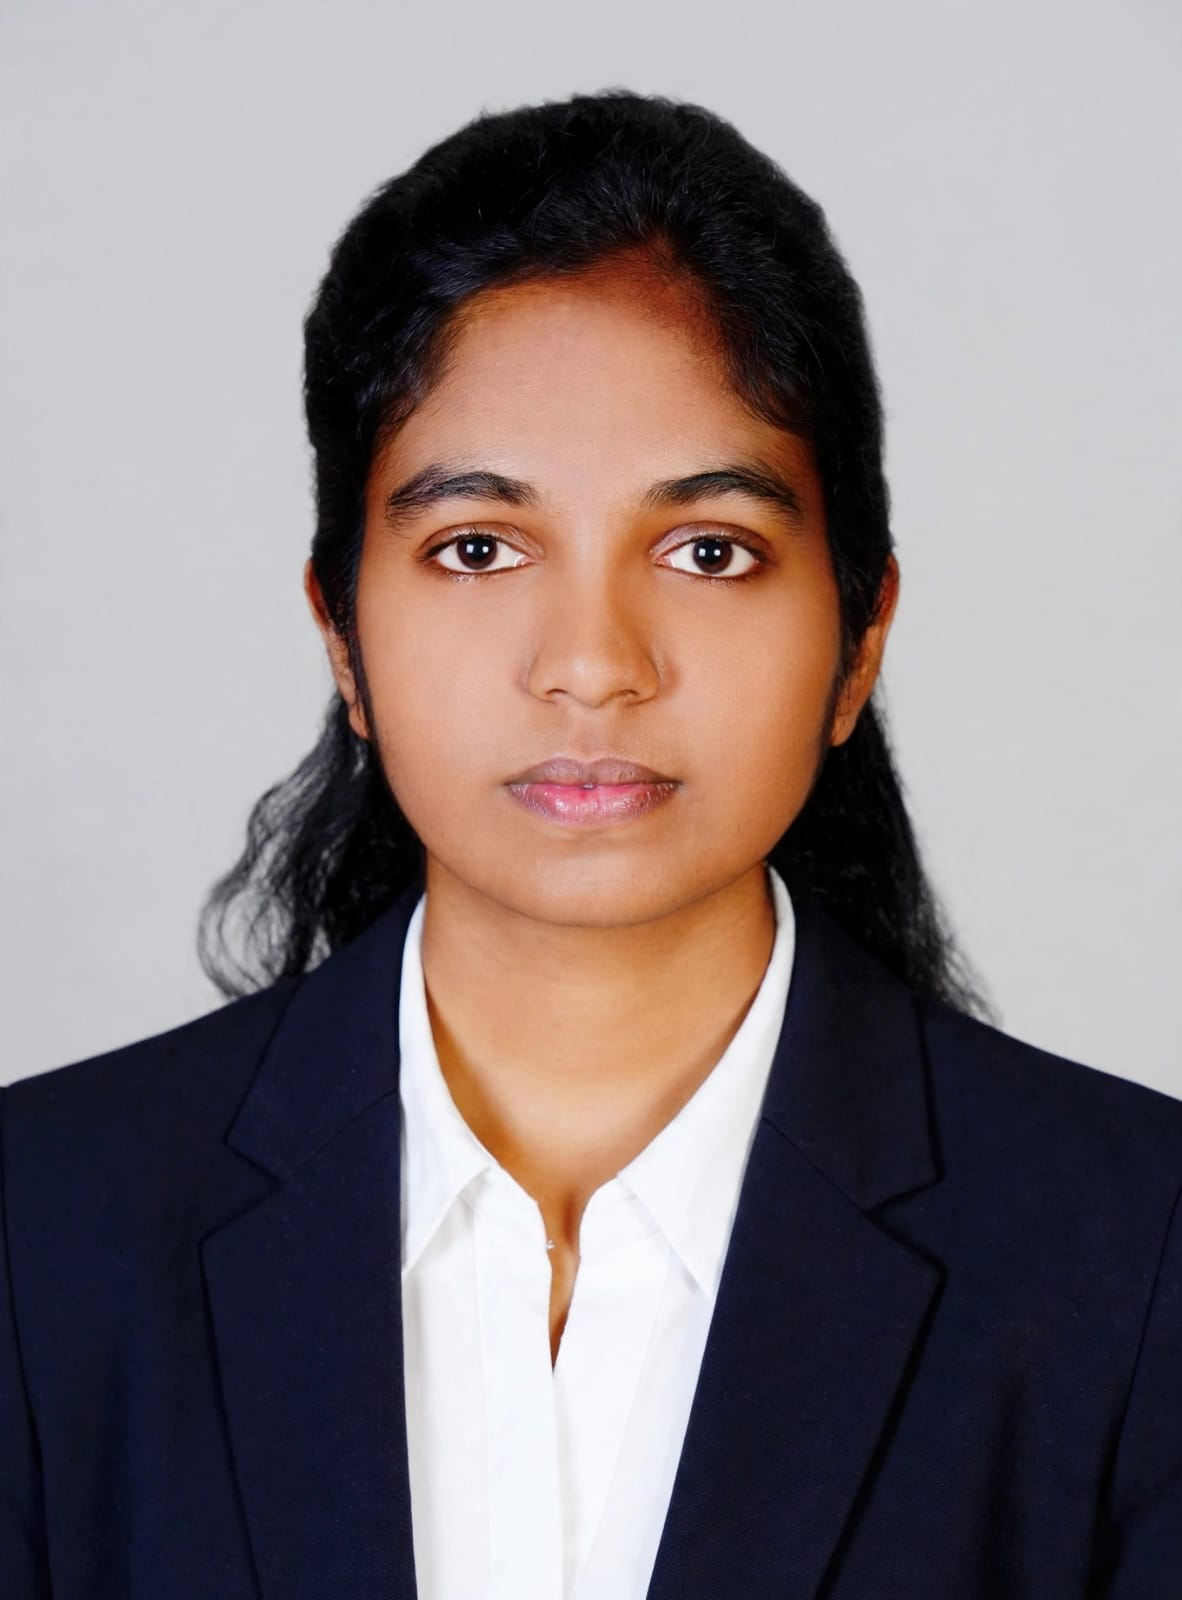
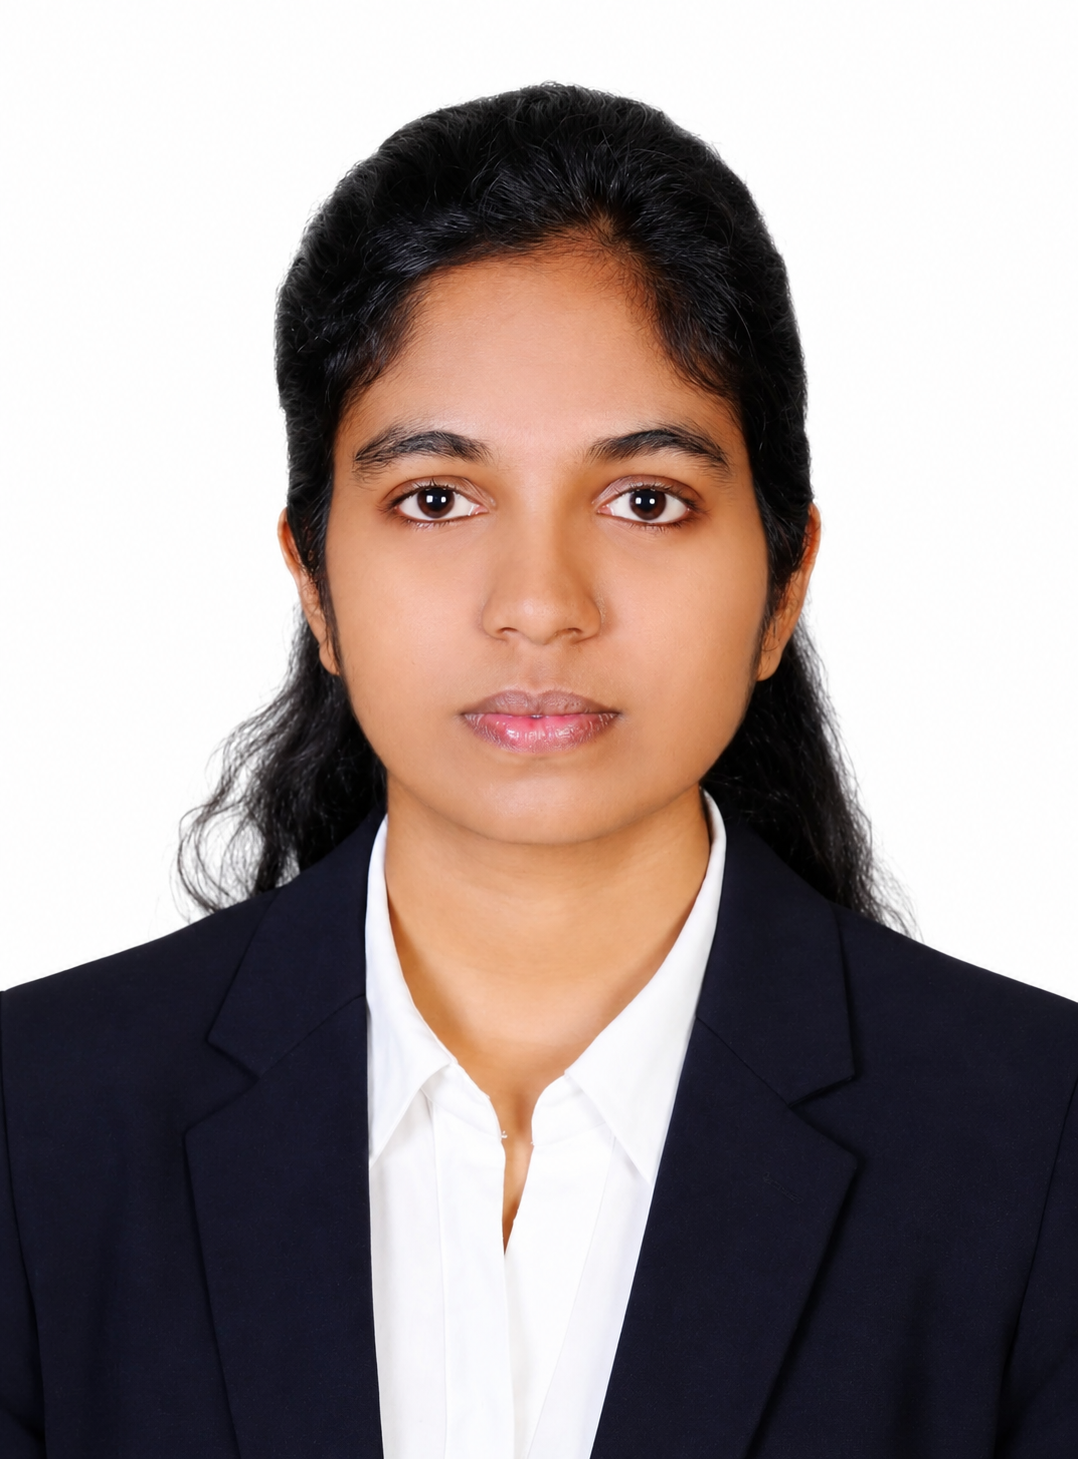
feat: update team member images for Kosala D. Athapaththu and R. Vinodhini

diff --git a/supun-it-solutions/src/data/team.ts b/supun-it-solutions/src/data/team.ts
@@ -9,6 +9,6 @@ export type TeamMember = {
 
 export const teamMembers: TeamMember[] = [
   { name: "Anul Methnula", role: "Business Analyst & Project Manager", image: "/team/anul.png", linkedin: "https://www.linkedin.com/in/anul-methnula/", github: "https://github.com/anulmethnula", portfolio: "https://anulmethnula.vercel.app/" },
-  { name: "Kosala D. Athapaththu", role: "Software Developer", image: "/team/kosala2.png", linkedin: "https://www.linkedin.com/in/kosala-d-athapaththu-a453b9248/", github: "https://github.com/kosaladathapththu", portfolio: "https://kosala.netlify.app/" },
+  { name: "Kosala D. Athapaththu", role: "Software Developer", image: "/team/kosala.jpeg", linkedin: "https://www.linkedin.com/in/kosala-d-athapaththu-a453b9248/", github: "https://github.com/kosaladathapththu", portfolio: "https://kosala.netlify.app/" },
   { name: "R. Vinodhini", role: "Graphic Designer", image: "/team/vinodhini.jpeg", linkedin: "https://www.linkedin.com/in/vinodhini-vinodhini-05162a252/" },
 ];
